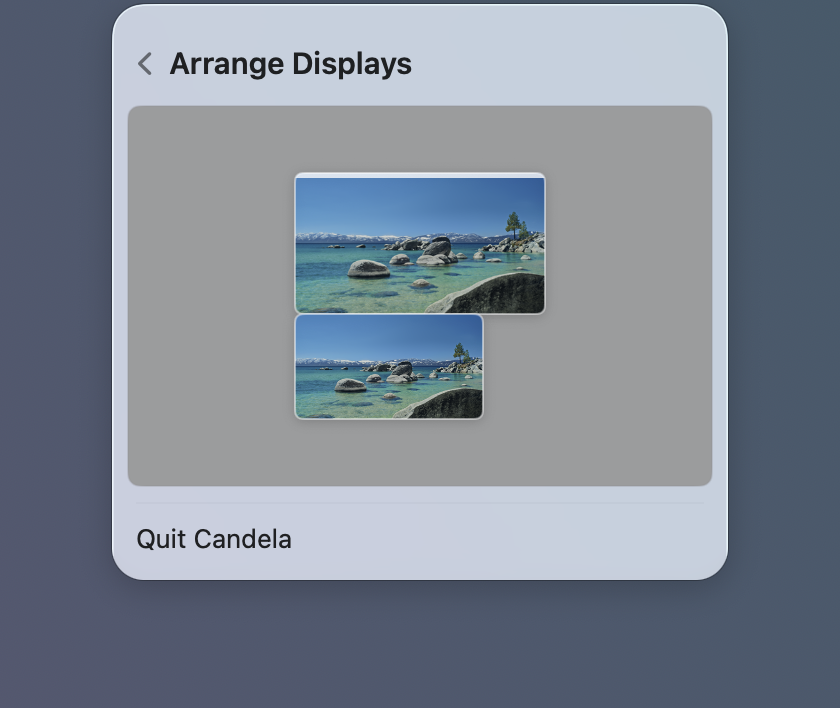
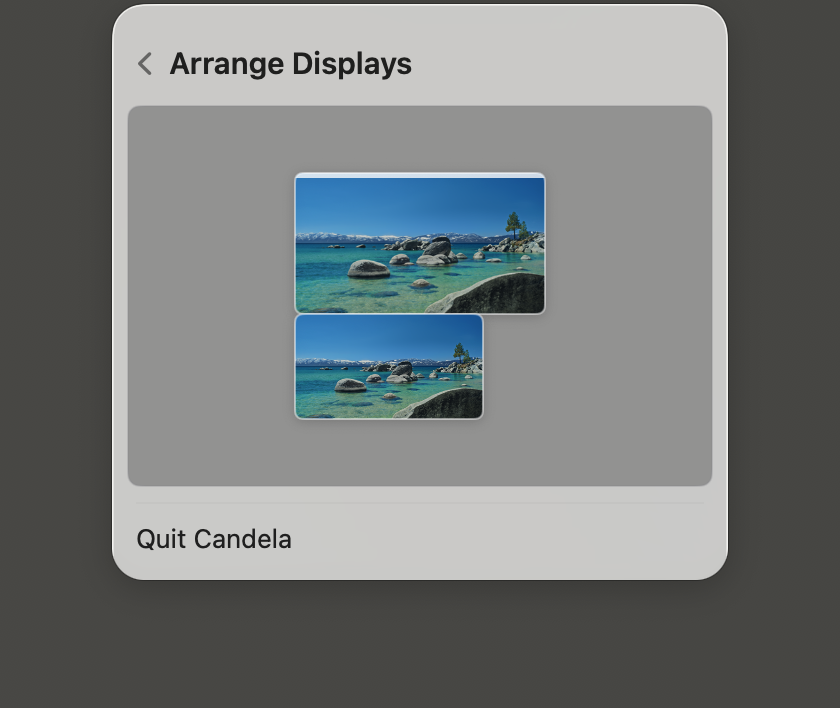
Redesign the site in kami's editorial paper language
kami (紙) is a print-first system: warm parchment canvas, serif-led hierarchy,
ink-blue held under 5% of the surface, and a stated refusal of the things that
mark a page as a web page — no #ffffff background, no cool blue-greys, no weight
above 500, no italic, no sans-serif for headings or body, no backdrop-filter, no
drop shadows, no round-disc bullets. All of that is followed here.

Where kami and Apple's guidance disagree they are talking about different things.
kami governs how the page looks. Apple's guidance is followed where it governs how
the page behaves: 44px minimum touch targets (the padding is what makes a link
tappable, not the type size), real contrast, reduced-motion, safe-area insets, a
print stylesheet, and nothing that works only on hover.

Mixed Chinese and Latin is handled by scoping the font stack and tracking to
:lang() rather than to the page, so a Chinese phrase inside an English sentence is
not tracked out on its own, and Chinese body text gets the 0.35px it wants while
Latin gets none.

The screenshots and marketing images were regenerated to match. The capture
backdrop was a cool blue-violet; a cool-blue plate on a parchment page reads as
borrowed from somewhere else, so it is now kami's warm neutrals, and the cards set
their type in Charter — the site's own text face — rather than in the system sans.

diff --git a/scripts/capture-backdrop.swift b/scripts/capture-backdrop.swift
@@ -50,15 +50,20 @@ final class BackdropController {
     }
 }
 
-/// A soft diagonal gradient. Mid-tone rather than black or white: the glass picks up
-/// its surroundings, and a flat extreme makes the panel read as either washed out or
-/// silhouetted rather than as the material it is.
+/// A soft diagonal gradient in the website's own palette — kami's warm neutrals
+/// (Olive #504e49 through Dark Warm #3d3d3a), not the cool blue-violet this used to
+/// be. A screenshot is a plate on a page, and a cool-blue plate on a parchment page
+/// reads as borrowed from somewhere else.
+///
+/// Mid-tone rather than black or white: the panel is glass and picks up whatever it
+/// sits on, so a flat extreme makes it look washed out or silhouetted instead of
+/// like the material it is. Dark enough that a light panel still separates from it.
 final class BackdropView: NSView {
     override func draw(_ dirtyRect: NSRect) {
         let gradient = NSGradient(colors: [
-            NSColor(calibratedRed: 0.16, green: 0.19, blue: 0.28, alpha: 1),
-            NSColor(calibratedRed: 0.30, green: 0.26, blue: 0.38, alpha: 1),
-            NSColor(calibratedRed: 0.18, green: 0.28, blue: 0.34, alpha: 1),
+            NSColor(calibratedRed: 0.314, green: 0.306, blue: 0.286, alpha: 1),  // #504e49
+            NSColor(calibratedRed: 0.267, green: 0.263, blue: 0.251, alpha: 1),
+            NSColor(calibratedRed: 0.239, green: 0.239, blue: 0.227, alpha: 1),  // #3d3d3a
         ])
         gradient?.draw(in: bounds, angle: 35)
     }
